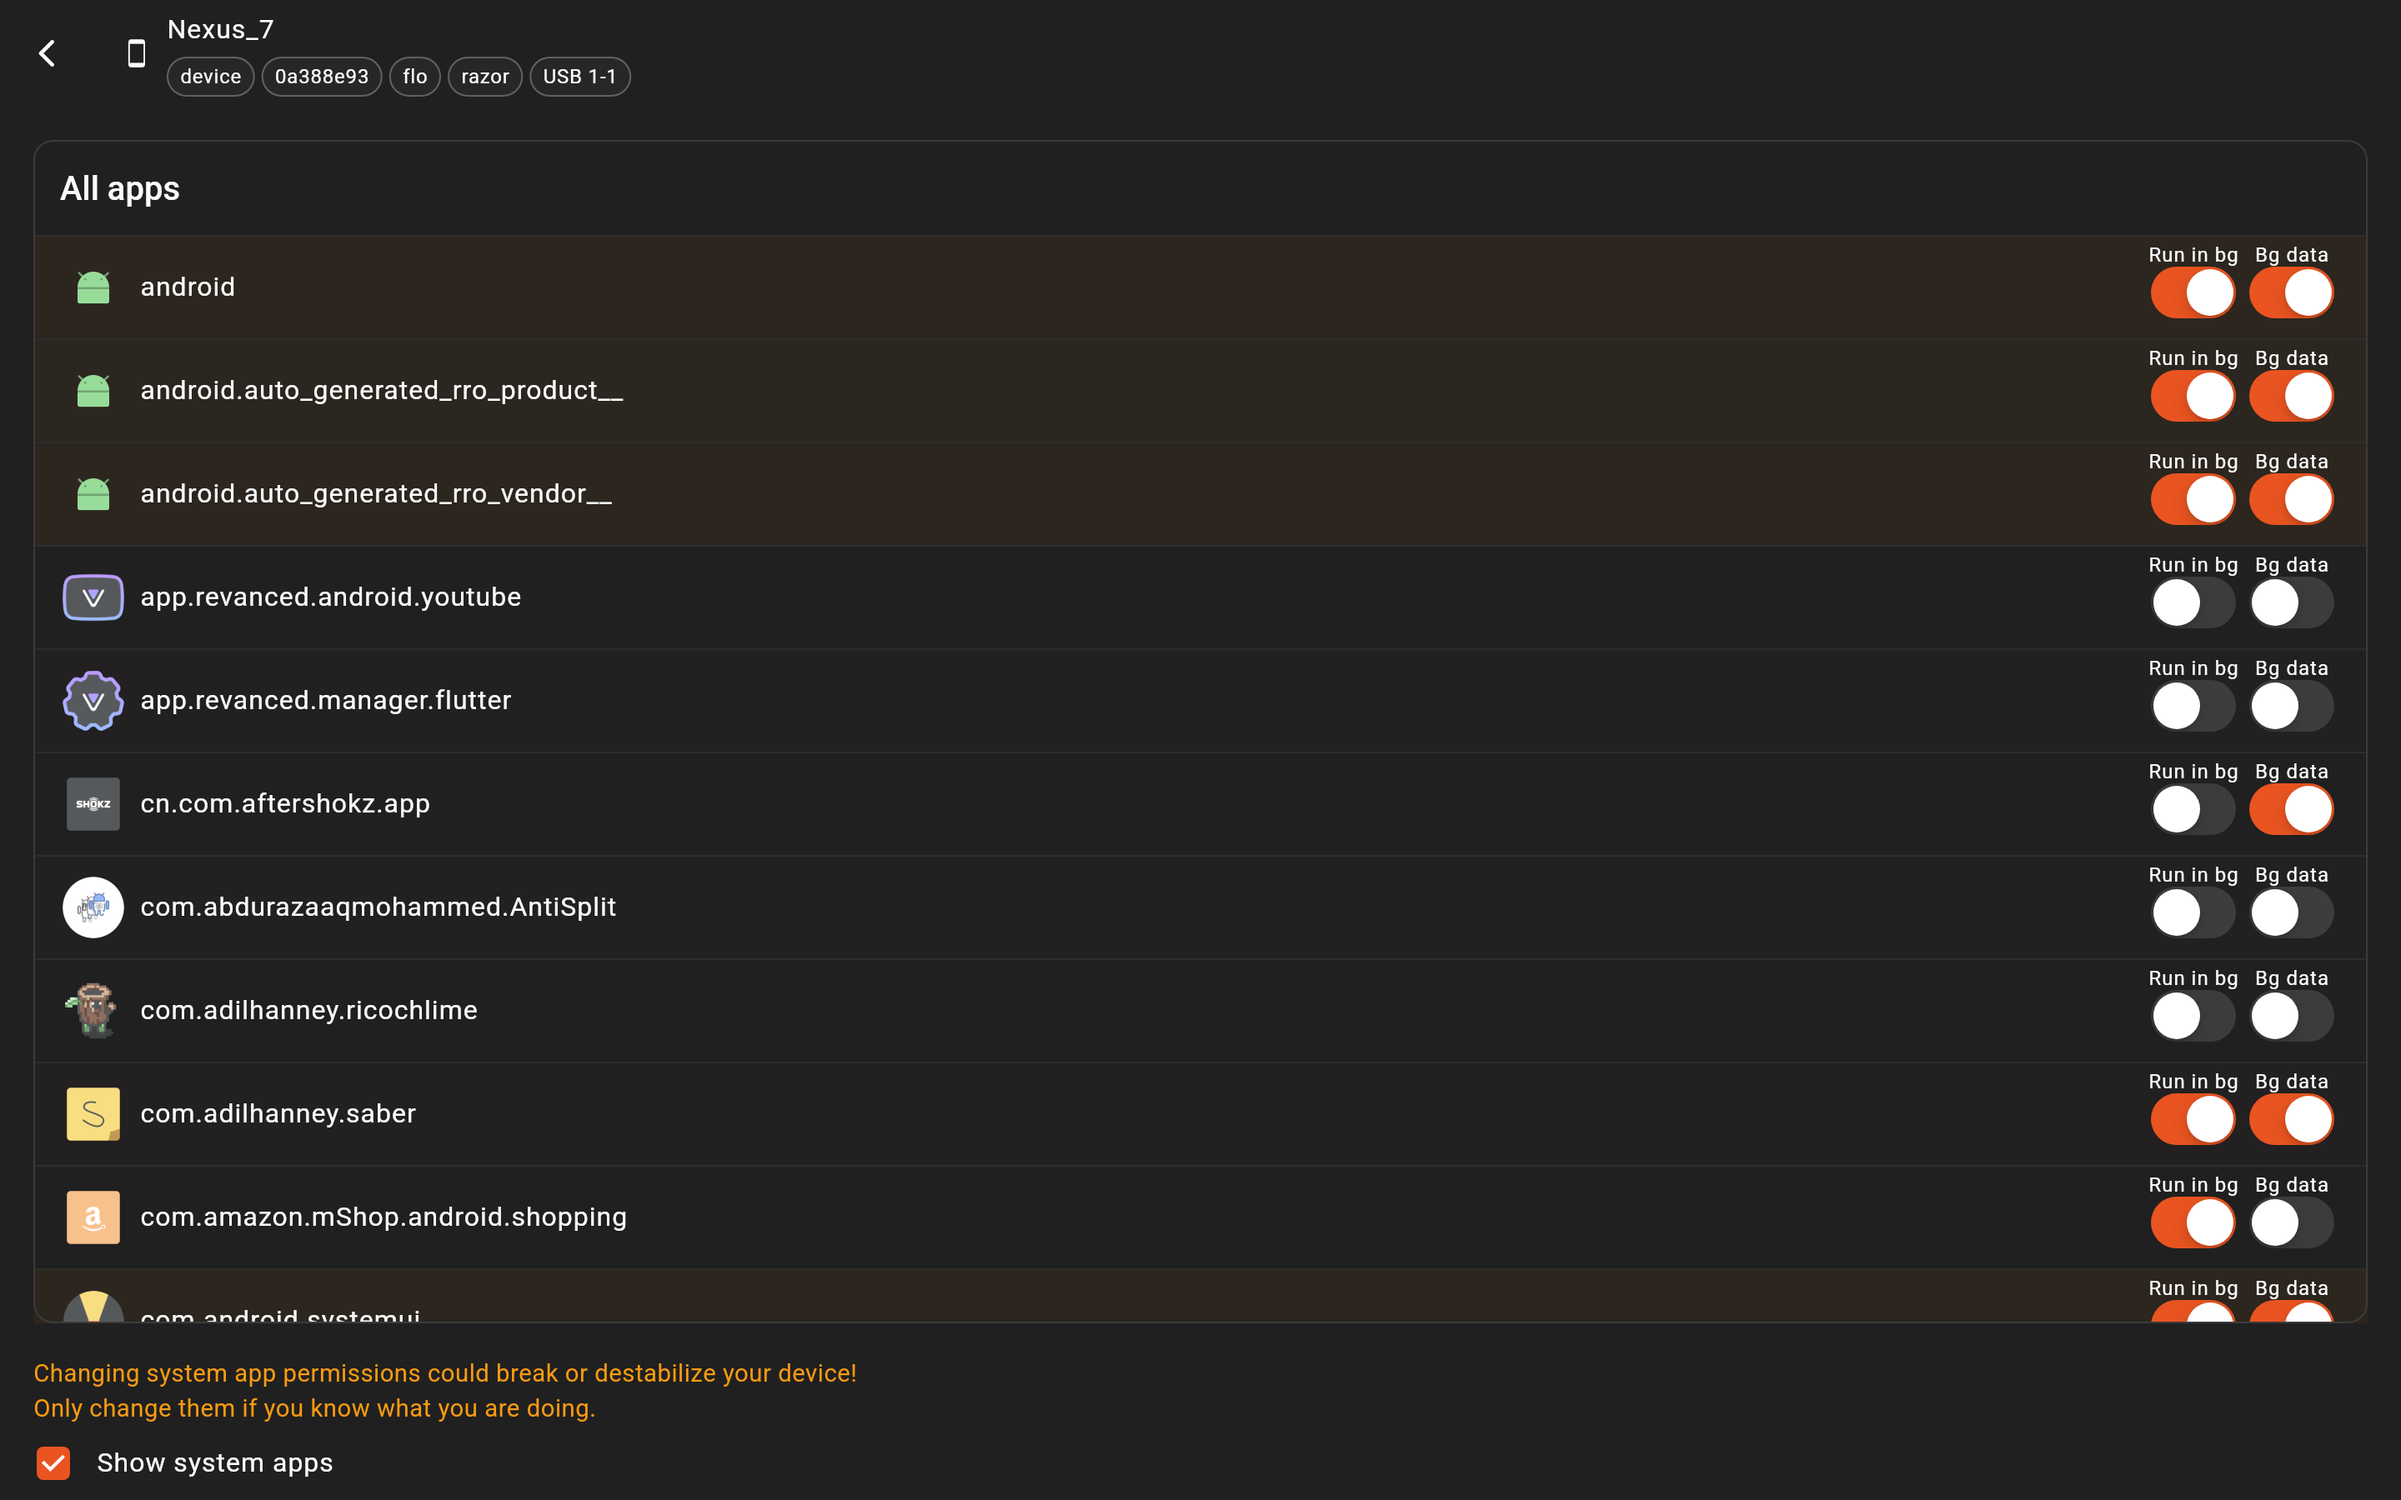
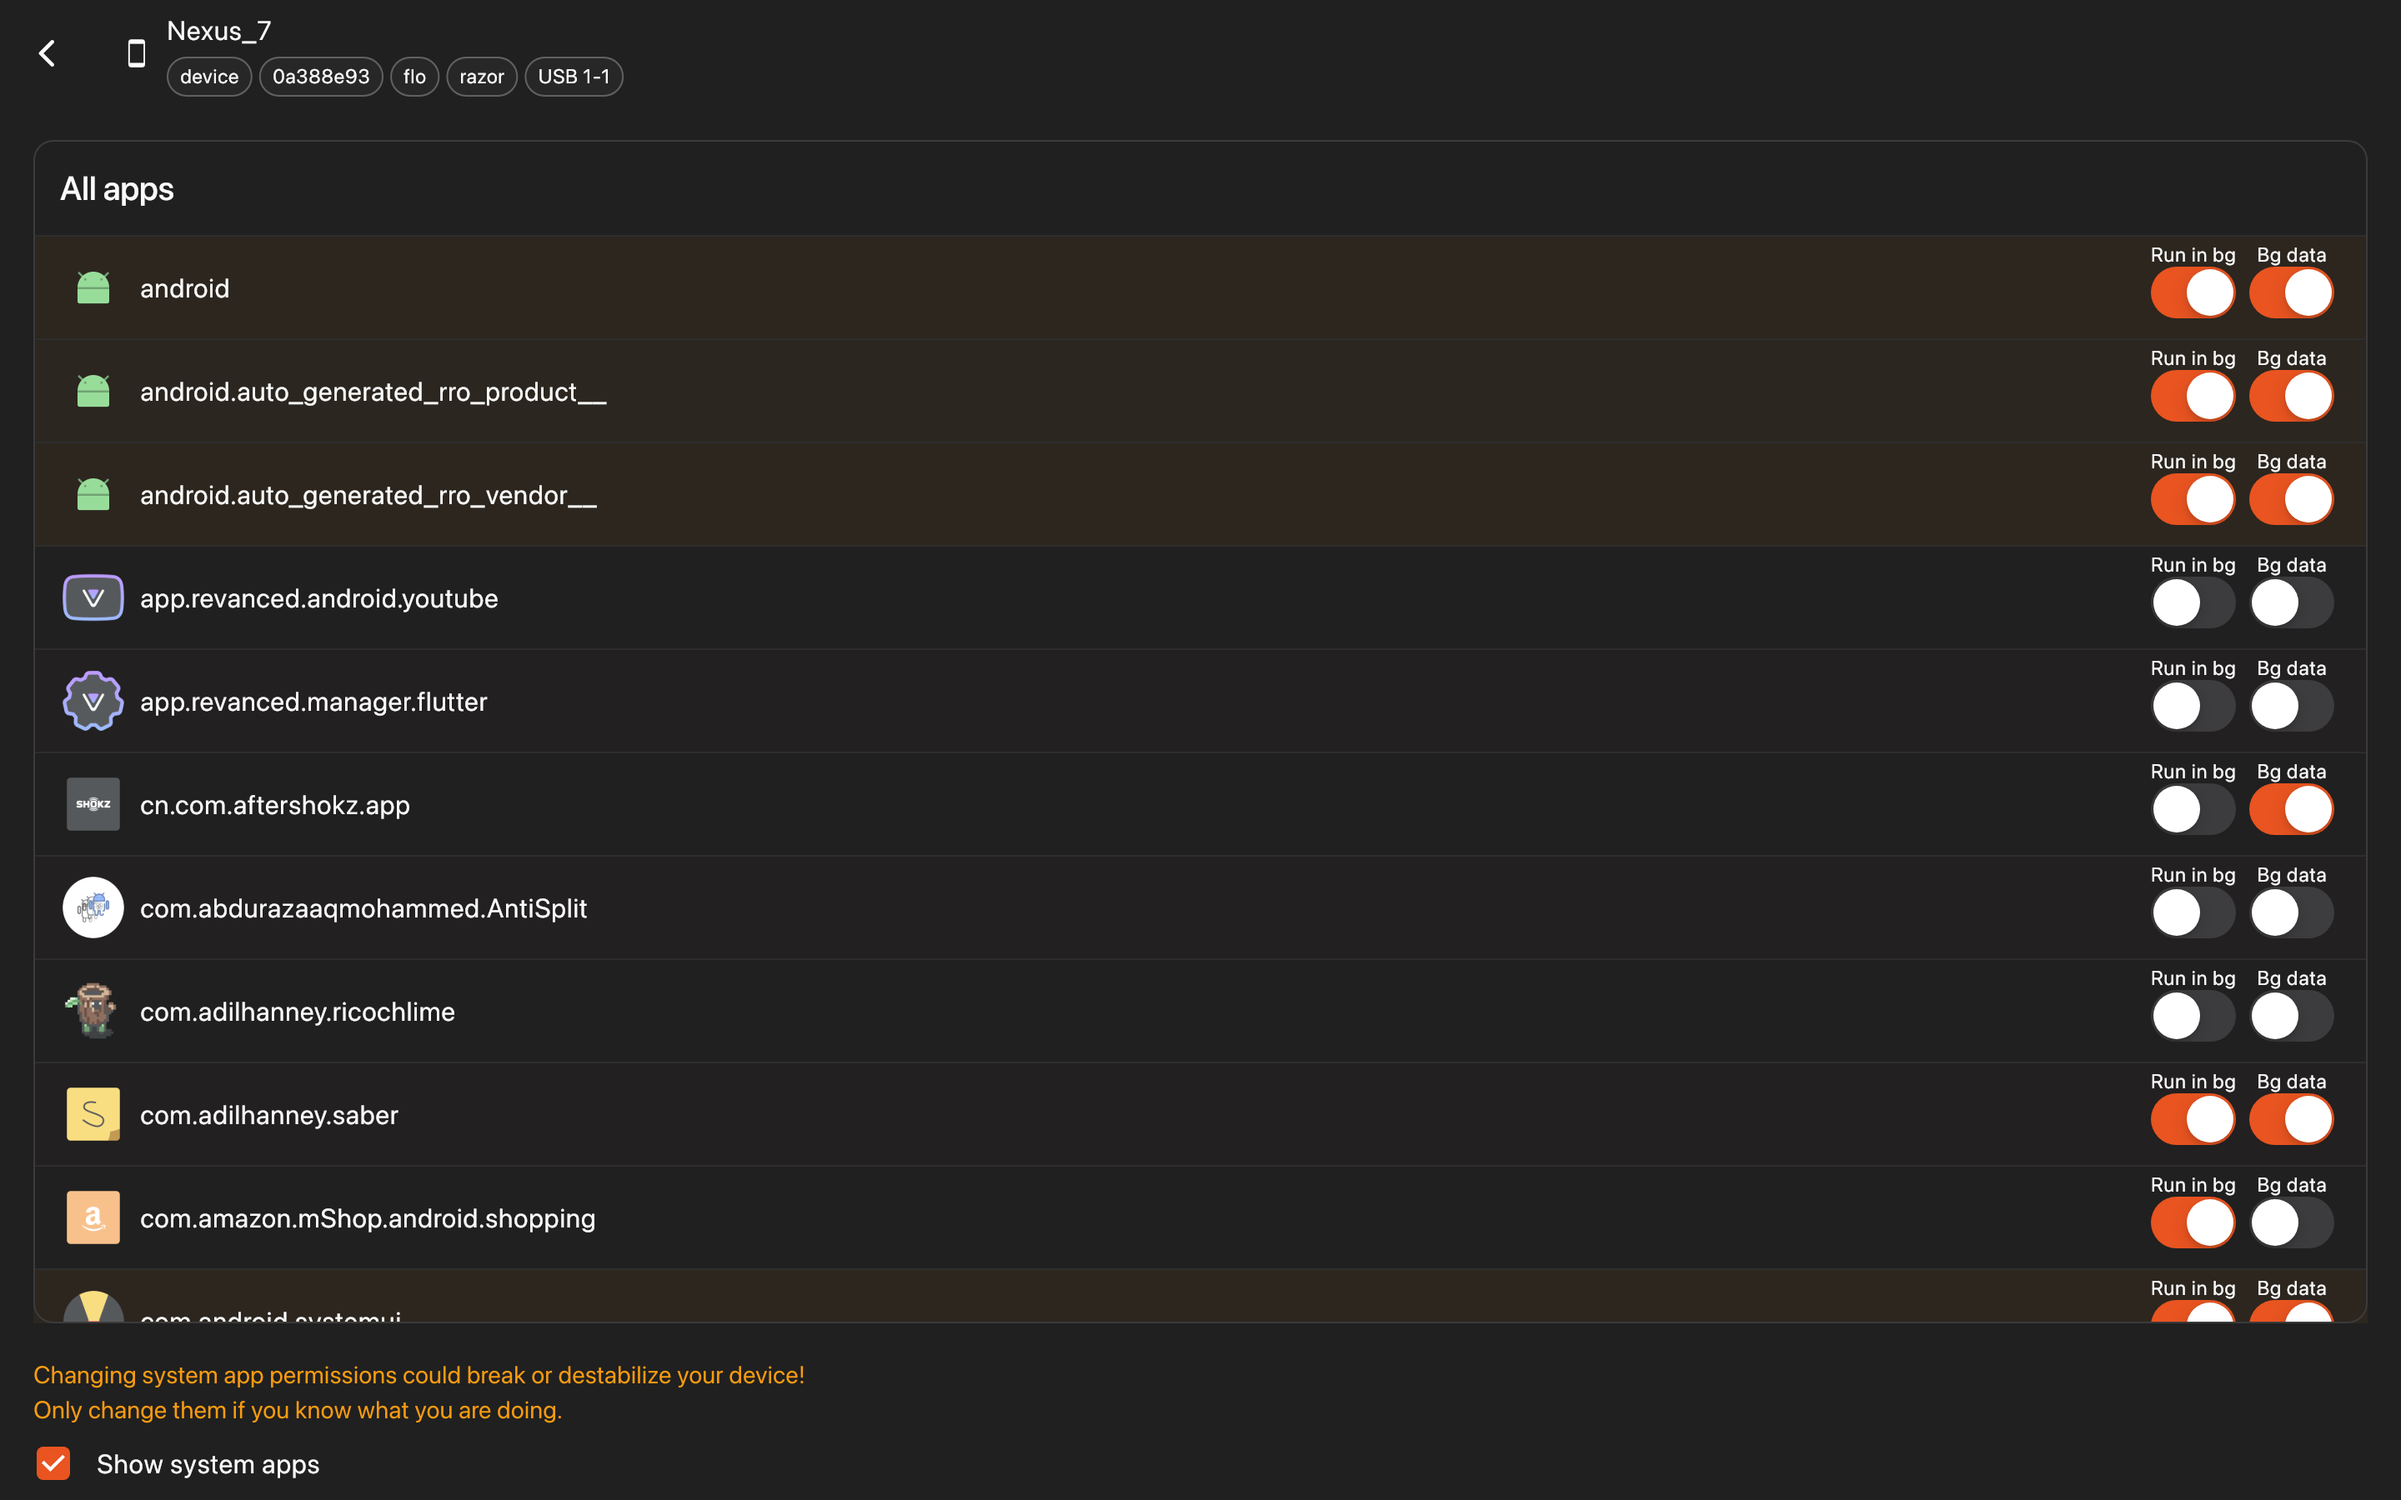
chore: update goldens

diff --git a/lib/pages/connect_page.dart b/lib/pages/connect_page.dart
@@ -12,7 +12,7 @@ class ConnectPage extends StatefulWidget {
   const ConnectPage({super.key});
 
   @override
-  State<ConnectPage> createState() => _ConnectPageState();
+  State<ConnectPage> createState() => ConnectPageState();
 
   /// Scanning devices is usually very quick, which makes the UI change
   /// abruptly. Setting a 1s minimum resolves this and doesn't noticibly
@@ -21,7 +21,8 @@ class ConnectPage extends StatefulWidget {
   static bool slowDownDeviceScanning = true;
 }
 
-class _ConnectPageState extends State<ConnectPage> {
+@visibleForTesting
+class ConnectPageState extends State<ConnectPage> {
   List<AdbDevice> devices = const [];
 
   Timer? autoRefreshTimer;
@@ -51,6 +52,7 @@ class _ConnectPageState extends State<ConnectPage> {
   @override
   void initState() {
     super.initState();
+    refreshDevices();
     autoRefreshTimer?.cancel();
     autoRefreshTimer = Timer(const Duration(milliseconds: 100), refreshDevices);
   }

diff --git a/test/golden_screenshot_test.dart b/test/golden_screenshot_test.dart
@@ -33,7 +33,21 @@ void main() {
         ..restrictBg('com.adilhanney.timing');
     });
 
-    _screenshot('1_connect', home: ConnectPage());
+    _screenshot(
+      '1_connect',
+      home: ConnectPage(),
+      beforeScreenshot: (tester) async {
+        // Wait for devices to load
+        final state = tester.state<ConnectPageState>(find.byType(ConnectPage));
+        await state.refreshMutex.protect(() async {});
+        await tester.pump();
+        expect(
+          state.devices,
+          isNotEmpty,
+          reason: 'ConnectPage should load devices ASAP',
+        );
+      },
+    );
 
     _screenshot(
       '2_apps',
@@ -104,6 +118,7 @@ void _screenshot(
             home: home,
           ),
         );
+        await tester.pump();
 
         await beforeScreenshot?.call(tester);
         await tester.loadAssets();
